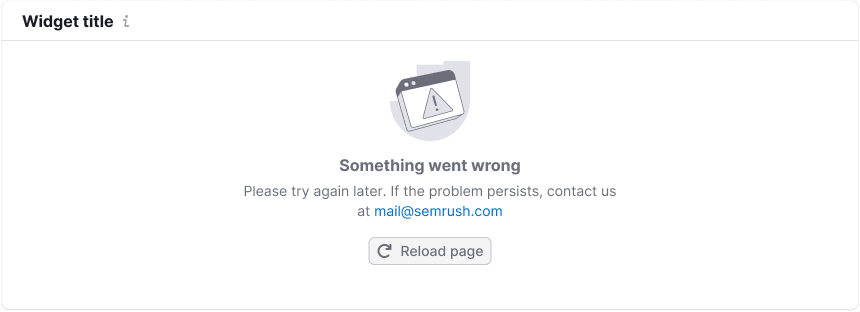
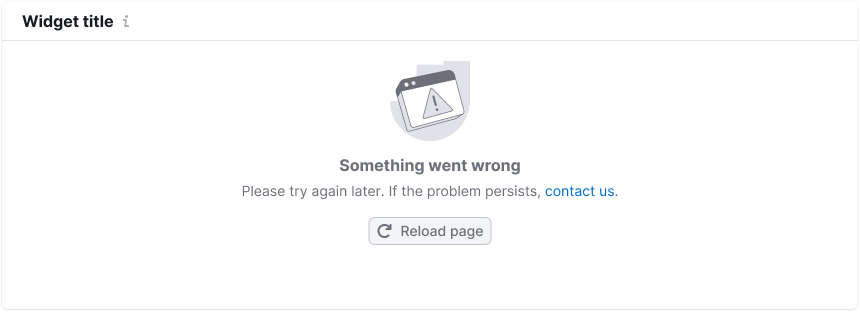
[widget-empty] small style enhancement

Changed region(s): [[0.393, 0.6635, 0.6047, 0.8654], [0.2721, 0.5769, 0.7256, 0.6346]]

diff --git a/stories/components/widget-empty/docs/examples/error_example.tsx b/stories/components/widget-empty/docs/examples/error_example.tsx
@@ -59,8 +59,8 @@ const Demo = () => {
             <Error
               description={
                 <>
-                  Please try again later. If the problem persists, contact us at{' '}
-                  <Link href='mailto:mail@semrush.com'>mail@semrush.com</Link>
+                  Please try again later. If the problem persists,{' '}
+                  <Link href='https://www.semrush.com/kb/support/'>contact us</Link>.
                 </>
               }
             >

diff --git a/semcore/widget-empty/src/style/widget-empty.shadow.css b/semcore/widget-empty/src/style/widget-empty.shadow.css
@@ -23,6 +23,7 @@ STitle {
 
 SDescription {
   text-align: center;
+  text-wrap: balance;
   font-size: var(--intergalactic-fs-200, 14px);
   line-height: var(--intergalactic-lh-200, 142%);
   color: var(--intergalactic-text-secondary, #6c6e79);

diff --git a/website/docs/components/widget-empty/widget-empty.md b/website/docs/components/widget-empty/widget-empty.md
@@ -31,12 +31,12 @@ We recommend restricting maximum width of the message text to 400px to ensure re
 
 Table: WidgetEmpty styles
 
-| Element             | Styles   |
-| ------------------- | -------- |
-| Title               | Font has 16px size (`--fs-300`, `--lh-300` tokens), `--text-secondary` token for color and `margin-bottom: var(--spacing-1x)` |
-| Description         | Font has 14px size (`--fs-200`, `--lh-200` tokens) and `--text-secondary` token for color     |
-| Illustration | `margin-bottom: 12px`        |
-| Controls   | Usually have M size and `margin-top: var(--spacing-4x)`   |
+| Element      | Styles                                                                                                                        |
+| ------------ | ----------------------------------------------------------------------------------------------------------------------------- |
+| Title        | Font has 16px size (`--fs-300`, `--lh-300` tokens), `--text-secondary` token for color and `margin-bottom: var(--spacing-1x)` |
+| Description  | Font has 14px size (`--fs-200`, `--lh-200` tokens) and `--text-secondary` token for color                                     |
+| Illustration | `margin-bottom: 12px`                                                                                                         |
+| Controls     | Usually have M size and `margin-top: var(--spacing-4x)`                                                                       |
 
 ### Indents
 
@@ -61,10 +61,11 @@ In some cases, widget's height needs to be reduced in the empty state to save sp
 ### Widgets with small width
 
 If your widget's width is less than 300px, you can use the compact version of the state:
-* hide the illustration,
-* display the title using description styles,
-* move the description text into an [Informer](../../patterns/informer/informer),
-* display a link instead of the button.
+
+- hide the illustration,
+- display the title using description styles,
+- move the description text into an [Informer](../../patterns/informer/informer),
+- display a link instead of the button.
 
 ![](static/small-empty.png)
 
@@ -88,8 +89,8 @@ Use this state when there is no data or the system cannot display it for some re
 
 Table: No data message examples
 
-| Large widget     | Medium widget       | Text           |
-| ---------------- | ------------------- | -------------- |
+| Large widget                      | Medium widget                        | Text                                                 |
+| --------------------------------- | ------------------------------------ | ---------------------------------------------------- |
 | ![](static/big-empty.png)         | ![](static/medium-empty.png)         | Title: "Nothing found". Description: {Hint message}. |
 | ![](static/big-empty-filters.png) | ![](static/medium-empty-filters.png) | Title: "Nothing found". Description: {Hint message}. |
 
@@ -107,8 +108,8 @@ This is a variation of the `No data` state that's used when there are no search 
 
 Table: Nothing found message examples
 
-| Large widget        | Medium widget      | Text     |
-| ------------------- | ------------------ | -------- |
+| Large widget                | Medium widget                  | Text                                                              |
+| --------------------------- | ------------------------------ | ----------------------------------------------------------------- |
 | ![](static/big-nothing.png) | ![](static/medium-nothing.png) | Title: "Nothing found". Description: "Try changing your filters". |
 
 ## Something went wrong
@@ -125,8 +126,8 @@ Display the following:
 
 Table: Something went wrong message examples
 
-| Large widget       | Medium widget               | Text    |
-| ------------------ | --------------------------- | ------- |
+| Large widget              | Medium widget                | Text                                                                                                                       |
+| ------------------------- | ---------------------------- | -------------------------------------------------------------------------------------------------------------------------- |
 | ![](static/big-error.png) | ![](static/medium-error.png) | Title: "Something went wrong". Description: "We are aware of the issue and are working to fix it. Please try again later". |
 
 ### We don’t know there are problems in the system
@@ -139,13 +140,14 @@ Display the following:
 
 Table: Something went wrong message examples
 
-| Large widget  | Medium widget         | Text       |
-| ------------- | --------------------- | ---------- |
-| ![](static/big-error-2.png) | ![](static/medium-error-2.png) | Title: "Something went wrong". Description: "Please try again later. If the problem persists, contact us at {email}" |
+| Large widget                | Medium widget                  | Text                                                                                                       |
+| --------------------------- | ------------------------------ | ---------------------------------------------------------------------------------------------------------- |
+| ![](static/big-error-2.png) | ![](static/medium-error-2.png) | Title: "Something went wrong". Description: "Please try again later. If the problem persists, contact us." |
 
 ### Button name
 
 <!-- 1. If the WidgetEmpty's description starts with "Try" and only the problem area should be updated, then call the button "Try again". -->
+
 1. If the button refreshes the whole page, call it "Reload page."
 2. If the button refreshes only this widget, call it simply "Reload."
 
@@ -162,8 +164,8 @@ Display the following:
 
 Table: Custom message examples
 
-| Large widget   | Medium widget        | Text      |
-| -------------- | -------------------- | --------- |
+| Large widget                     | Medium widget                       | Text                                                                                                                             |
+| -------------------------------- | ----------------------------------- | -------------------------------------------------------------------------------------------------------------------------------- |
 | ![](static/big-error-filter.png) | ![](static/medium-error-filter.png) | Title: "Cannot {filter/search/sort} data". Description: "{Provide helpful information for the user to deal with the situation}". |
 
 ### Set up your product
@@ -181,8 +183,8 @@ Display the following:
 
 Table: Set up your product message examples
 
-| Large widget           | Medium widget    | Text         |
-| ---------------------- | ---------------- | ------------ |
+| Large widget               | Medium widget                 | Text                                                           |
+| -------------------------- | ----------------------------- | -------------------------------------------------------------- |
 | ![](static/big-set-up.png) | ![](static/medium-set-up.png) | Title: "Set up your {Name Tool}". Description: {Hint message}. |
 
 ### No more results
@@ -192,4 +194,3 @@ This state is used when there is a small amount of data in the widget, typically
 Add the text: "No more results" after the data and center it horizontally.
 
 ![](static/no-more-results.png)
-

diff --git a/semcore/widget-empty/CHANGELOG.md b/semcore/widget-empty/CHANGELOG.md
@@ -2,6 +2,12 @@
 
 CHANGELOG.md standards are inspired by [keepachangelog.com](https://keepachangelog.com/en/1.0.0/).
 
+## [4.42.2] - 2025-03-11
+
+### Added
+
+- `text-wrap: balance` for Description, to display long descriptions in a better, trendy, and modern way. No orphans left hanging.
+
 ## [4.42.1] - 2025-02-05
 
 ### Changed
